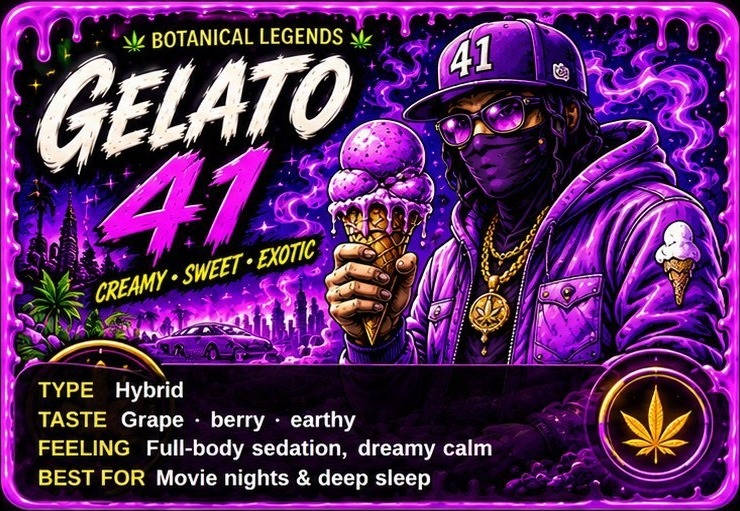
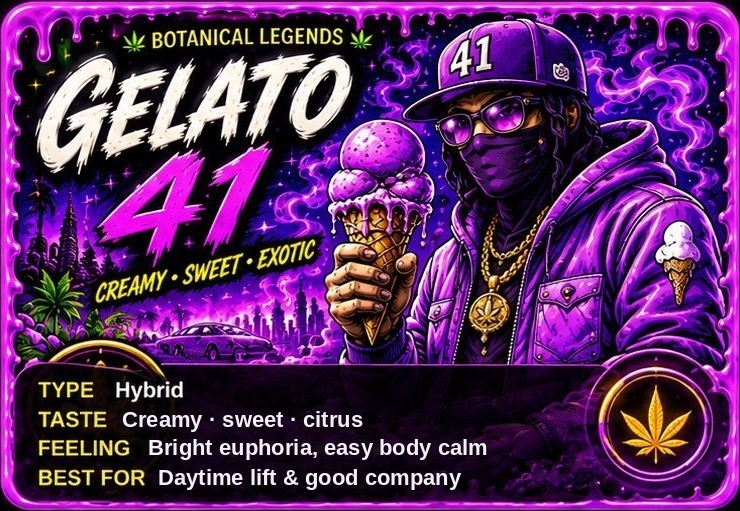
Redraw the Gelato 41 card, and stop writing off Thai product names
The Gelato 41 card told customers it tastes of grape and puts them to
sleep, because its TASTE / FEELING / BEST FOR lines were copied word for
word from Granddaddy Purple. The three wrong lines are painted out of the
artwork and rewritten in place; TYPE Hybrid was already right and is
untouched. strain-db.json now carries the same words, plus the effects,
terpene and lineage it never had. No THC figure, because nobody has one.

All twelve cards in assets/strains/ were then read and checked against
strain-db.json: every one agrees. Garlic Man printed 29.0% while the site
said 29%, which is now the same string in both. The strain cards served
from cdn.shopify.com cannot be reached from here — the network policy
refuses that host — so those stay unverified rather than assumed good.

flatNameIntl() gives a Thai-only product name a usable image key. Keeping
only a-z0-9 flattened "ขิงผง โชคดี เขาค้อ" to the empty string, which is
why it was written down as unphotographable. It is consulted only when the
ASCII key comes out empty, so "Thai Tea ชาไทย" keeps matching what it
matches today rather than becoming a new key nobody has a photo for.

Also wires the two Seed Siam packs to the photograph already sitting in
assets/products, and corrects the handover: 19 products fall through to a
drawn tile, not the 271 the notes claim, and twelve of those nineteen are
bar cocktails that belong on the 224 menu anyway.

Changed region(s): [[0.1554, 0.7926, 0.6838, 0.9687], [0.7149, 0.8806, 0.8081, 0.9393], [0.6838, 0.9393, 0.7149, 0.9687]]

diff --git a/api/_menu.js b/api/_menu.js
@@ -263,6 +263,24 @@ function flatName(s) {
     .replace(/[^a-z0-9]+/g, "");
 }
 
+/* Keeping only a-z0-9 means a Thai-only name flattens to the empty string, and
+   an empty key can never match a photograph — "( cbd product) ขิงผง โชคดี
+   เขาค้อ" was written off as unphotographable for that reason. So there is a
+   second key that keeps letters and digits in any script.
+
+   It is a fallback, never a replacement: widening flatName itself would turn
+   "Thai Tea ชาไทย" from "thaitea" into "thaiteaชาไทย" and silently break a
+   photo that matches today. This is only consulted when the ASCII key came out
+   empty, which is exactly the case it was written for. */
+function flatNameIntl(s) {
+  return String(s || "")
+    .toLowerCase()
+    .replace(/\([^)]*\)/g, " ")
+    /* \p{M} keeps the Thai vowel and tone marks: without it the key for
+       "ขิงผง" comes out "ขงผง", which nobody would ever type by hand. */
+    .replace(/[^\p{L}\p{N}\p{M}]+/gu, "");
+}
+
 /* flatName() throws the spaces away, and a keyword search over the result will
    happily find "rig" inside "Original", "cola" inside "Chocolate", "ham" inside
    "Chamomile" and "tea" inside "Steam Bun" — each of which hangs a confident,
@@ -381,7 +399,7 @@ export async function fillImages(data) {
     /* 1. an exact photo of this very product */
     const flat = flatName(p.name);
     const words = wordsOf(p.name);
-    const hit = m.byName[flat];
+    const hit = m.byName[flat] || (flat ? "" : m.byName[flatNameIntl(p.name)]);
     if (hit) return { ...p, ...shot(hit), _imgFrom: "name" };
     /* 1b. a rolled product wears its own strain's picture. "Zkittles Joint" is
        Zkittles, so it gets the Zkittles card rather than a stock photograph of

diff --git a/CLAUDE.md b/CLAUDE.md
@@ -182,21 +182,24 @@ folded to `0`.
 As of 14 Aug 2026, `/api/health` reports every wired flag true and an empty
 `warnings` list. Nothing below is breaking the shop.
 
-1. **Product photographs — the big one.** 271 products still show a borrowed
-   stand-in. `IMAGE-QUEUE.csv` is the work list (in-stock first),
-   `CHATGPT-START.md` drives an image generator, `CODEX-HANDOVER.md` explains
-   wiring the results back in. Flower is better photographed than generated.
-2. **The Gelato 41 card is wrong.** Its TASTE / FEELING / BEST FOR lines are
-   word for word the Granddaddy Purple card. Only the header (creamy, sweet)
-   went into `strain-db.json`; the card needs redrawing before the rest can.
-3. Delete the duplicate Vercel project `dankbkk-site-4jrn` (failed build,
+1. **Product photographs — nearly done, and the old count was wrong.** "271
+   products still show a borrowed stand-in" was true when it was written and
+   is not true now. Counted off the live feed on 21 Aug 2026: of 391 products,
+   280 match a photograph by name, 56 carry one straight from the POS, 15 get
+   a keyword or category photo, and **19 still fall through to a drawn
+   `/api/tile`** — 12 of those in stock. Twelve of the nineteen are bar
+   cocktails that belong on the 224 menu rather than the cannabis shelf. What
+   is actually left: `Kamagra`, `MonkeyKing Tip` (out of stock), and the bar
+   list. `IMAGE-QUEUE.csv` and `IMAGE-PROMPTS-ALL.csv` predate this and
+   overstate the work; recount before trusting either.
+2. Delete the duplicate Vercel project `dankbkk-site-4jrn` (failed build,
    confuses which deployment is live), and the now-unused `KV_*`, `KV_URL`,
    `REDIS_URL` variables left over from Upstash.
-4. `staff.html#box` — Bryan needs to pick a POS product on each of the 7 gift
+3. `staff.html#box` — Bryan needs to pick a POS product on each of the 7 gift
    rows and enter stock numbers, or the custom-box free items never decrement.
-5. Shop tour: Bryan has an Insta360 and wanted both a video tour and a 360°
+4. Shop tour: Bryan has an Insta360 and wanted both a video tour and a 360°
    one. Nothing has been shot yet.
-6. Not set, so their features are dark: an AI key (AI chat and the LINE
+5. Not set, so their features are dark: an AI key (AI chat and the LINE
    budtender — `api/_ai.js` accepts `GEMINI_API_KEY`, `GROQ_API_KEY`,
    `OPENROUTER_API_KEY`, `DEEPSEEK_API_KEY`, `OPENAI_API_KEY` or
    `XAI_API_KEY`, first one found wins, free tiers first; `/api/health` →
@@ -214,14 +217,26 @@ Things for Bryan to fix in the POS rather than in code:
 - Eight bar lines carry negative stock.
 - Three `onion ring` products, one holding 4999. Cappuccino, Latte, Mocha and
   Strawberry are each in there three times.
-- `(cbd product) ขิงผง โชคดี เขาค้อ` can never have a photograph: the image
-  key keeps letters and digits only, so a Thai-only name flattens to an empty
-  string. Rename it in the POS.
+- `(cbd product) ขิงผง โชคดี เขาค้อ` still has no photograph, but it no longer
+  "can never" have one: `flatNameIntl()` in `api/_menu.js` gives a Thai-only
+  name a real key (`ขิงผงโชคดีเขาค้อ`) when the ASCII one comes out empty, so a
+  `byName` entry now works. Renaming it in the POS is optional.
 - Two spellings worth correcting, though both are mapped either way:
   "Grape Gasolin" (no e), "Galic Man" and "White Galic" (no r).
 
 Done, kept here so nobody redoes them:
 
+- **The Gelato 41 card** — its TASTE / FEELING / BEST FOR were word for word
+  the Granddaddy Purple card. The three wrong lines were painted out of
+  `assets/strains/gelato-41.jpg` and rewritten in place (creamy · sweet ·
+  citrus / bright euphoria, easy body calm / daytime lift & good company);
+  TYPE Hybrid was already right and was left alone. `strain-db.json` now
+  carries the same words plus effects, terpene and lineage. It still prints
+  no THC figure, because nobody has one — the card never had it either.
+  All twelve local cards in `assets/strains/` were checked against
+  `strain-db.json` after this; every one agrees. The strain cards served from
+  `cdn.shopify.com` cannot be checked from a sandbox — the network policy
+  refuses that host — so those remain Bryan's to eyeball.
 - **Storage** — Supabase, Aug 2026. See the section above.
 - **`MASTER_PIN`, `POS_SYNC_KEY`, domain** — all set. `dankbangkok.com` is
   live, bought through Vercel, with `.co` and `.shop` also owned.
